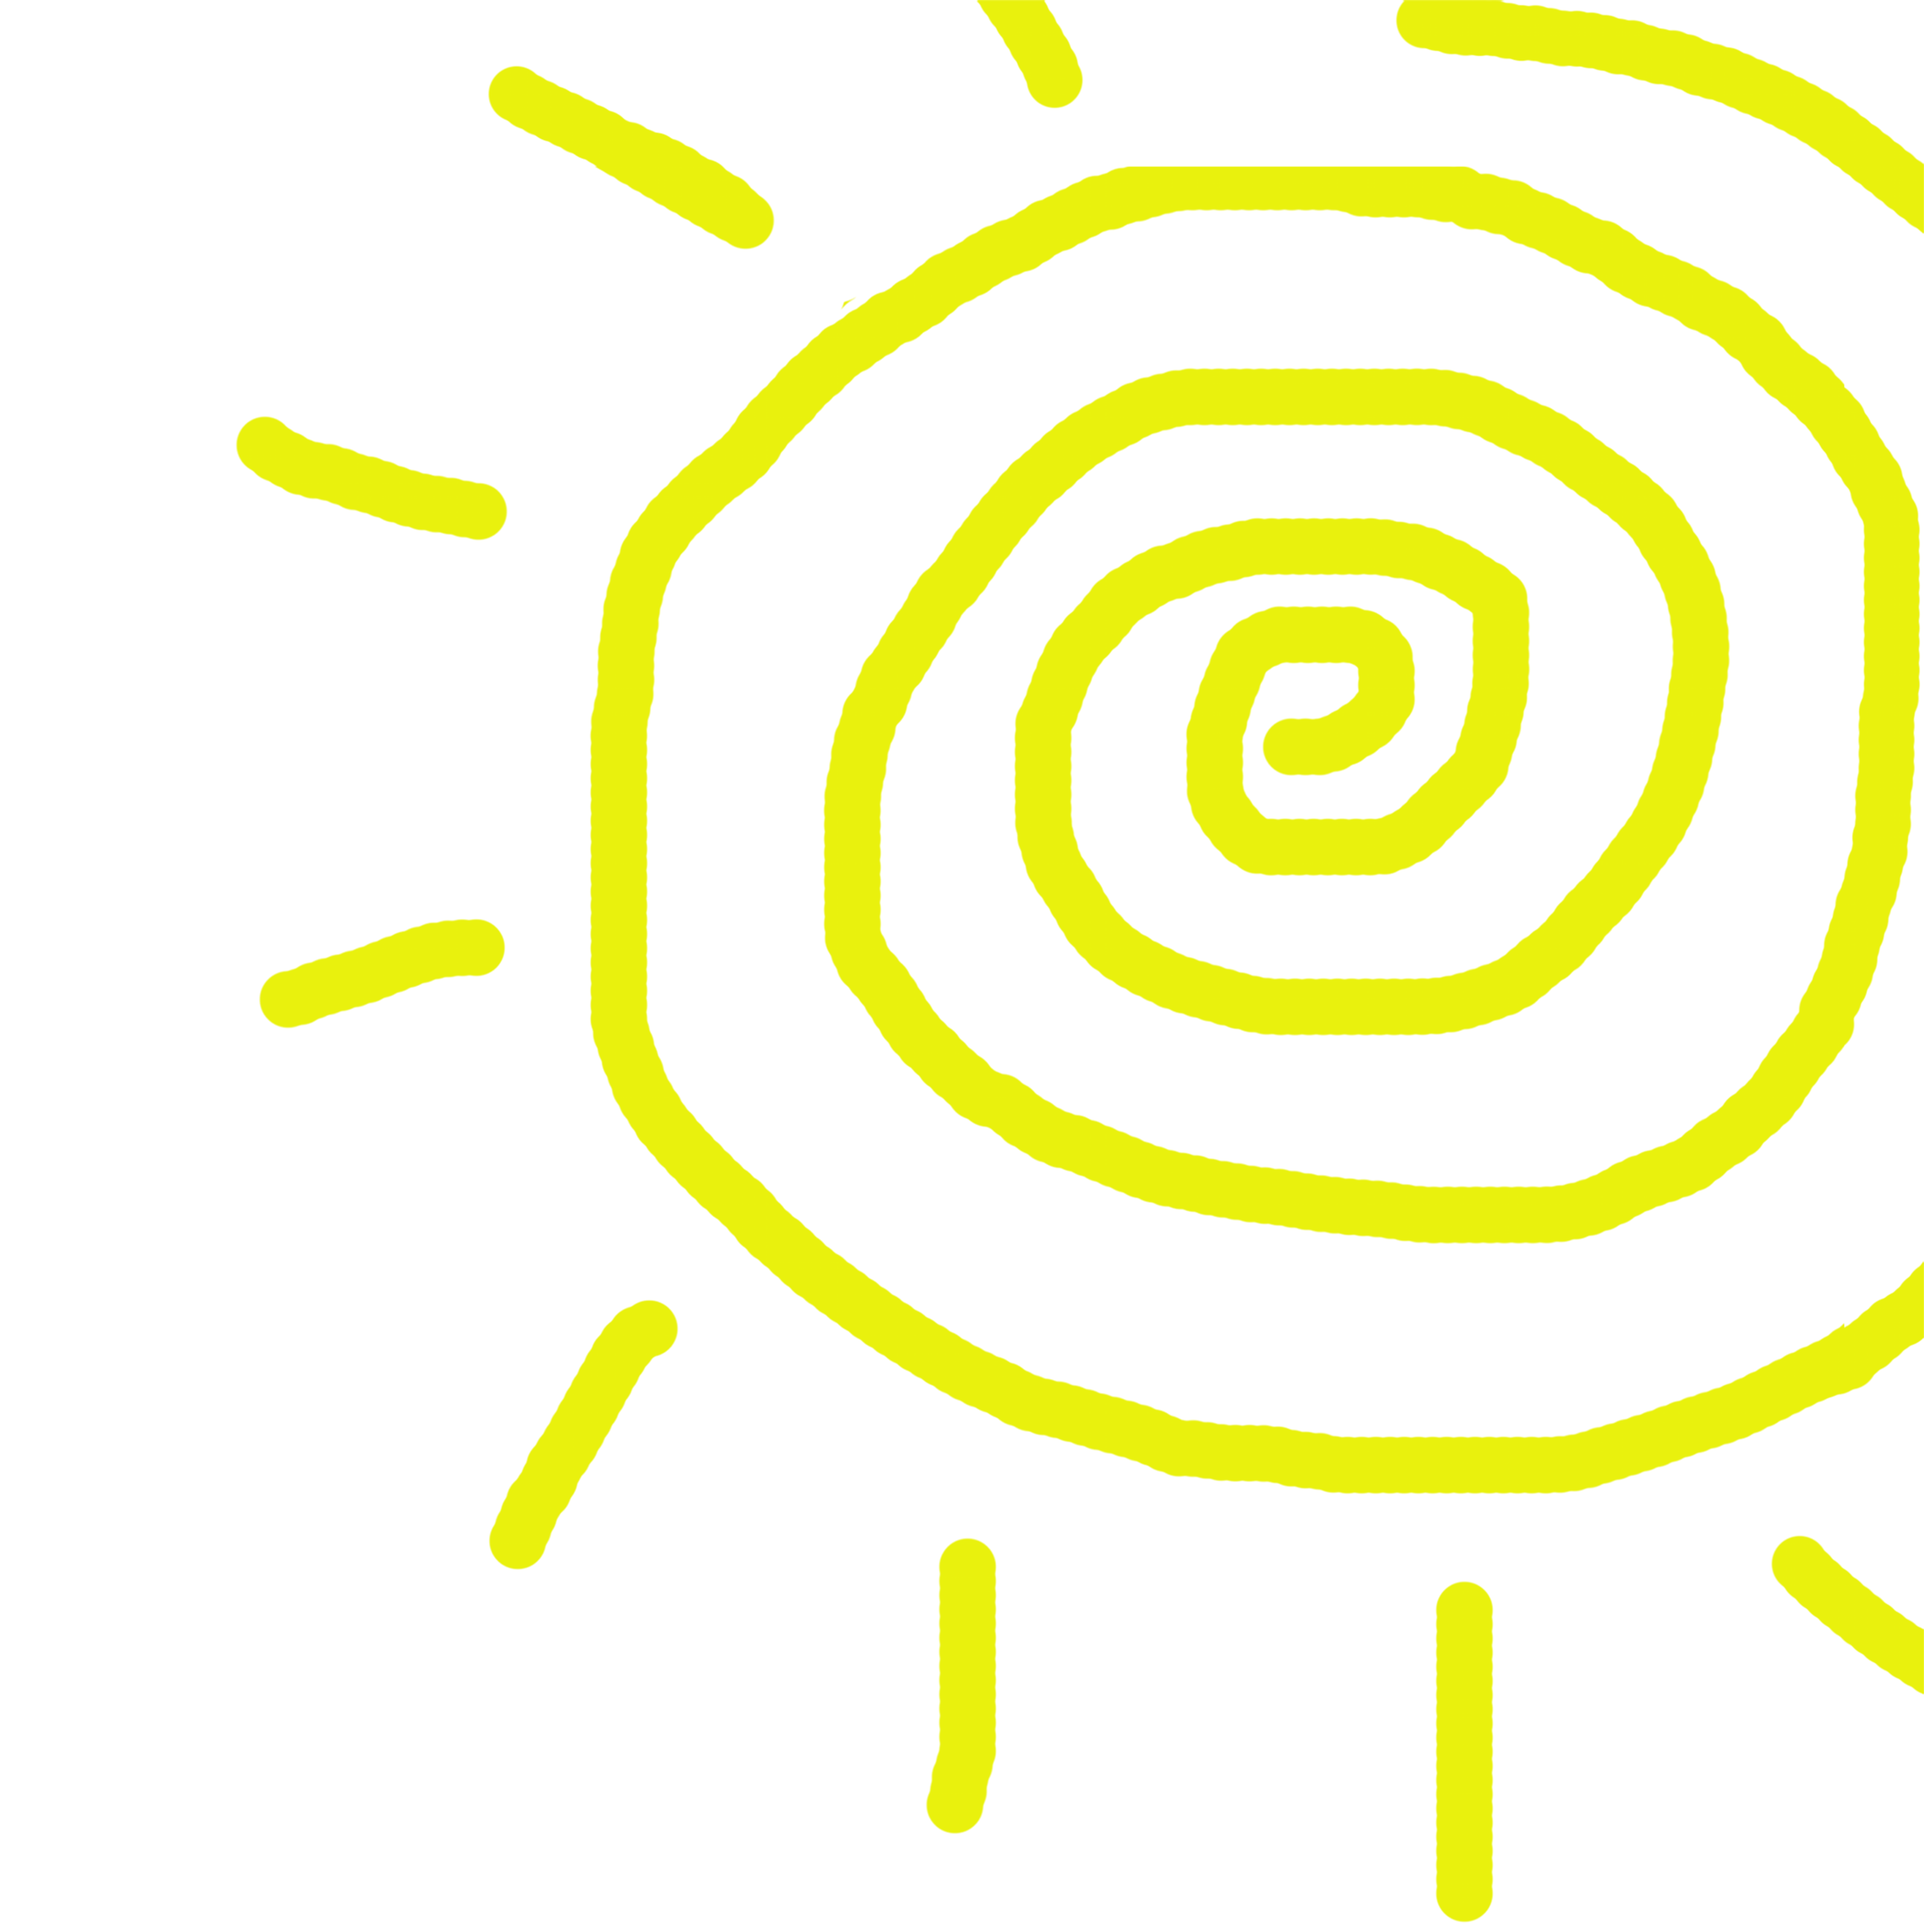
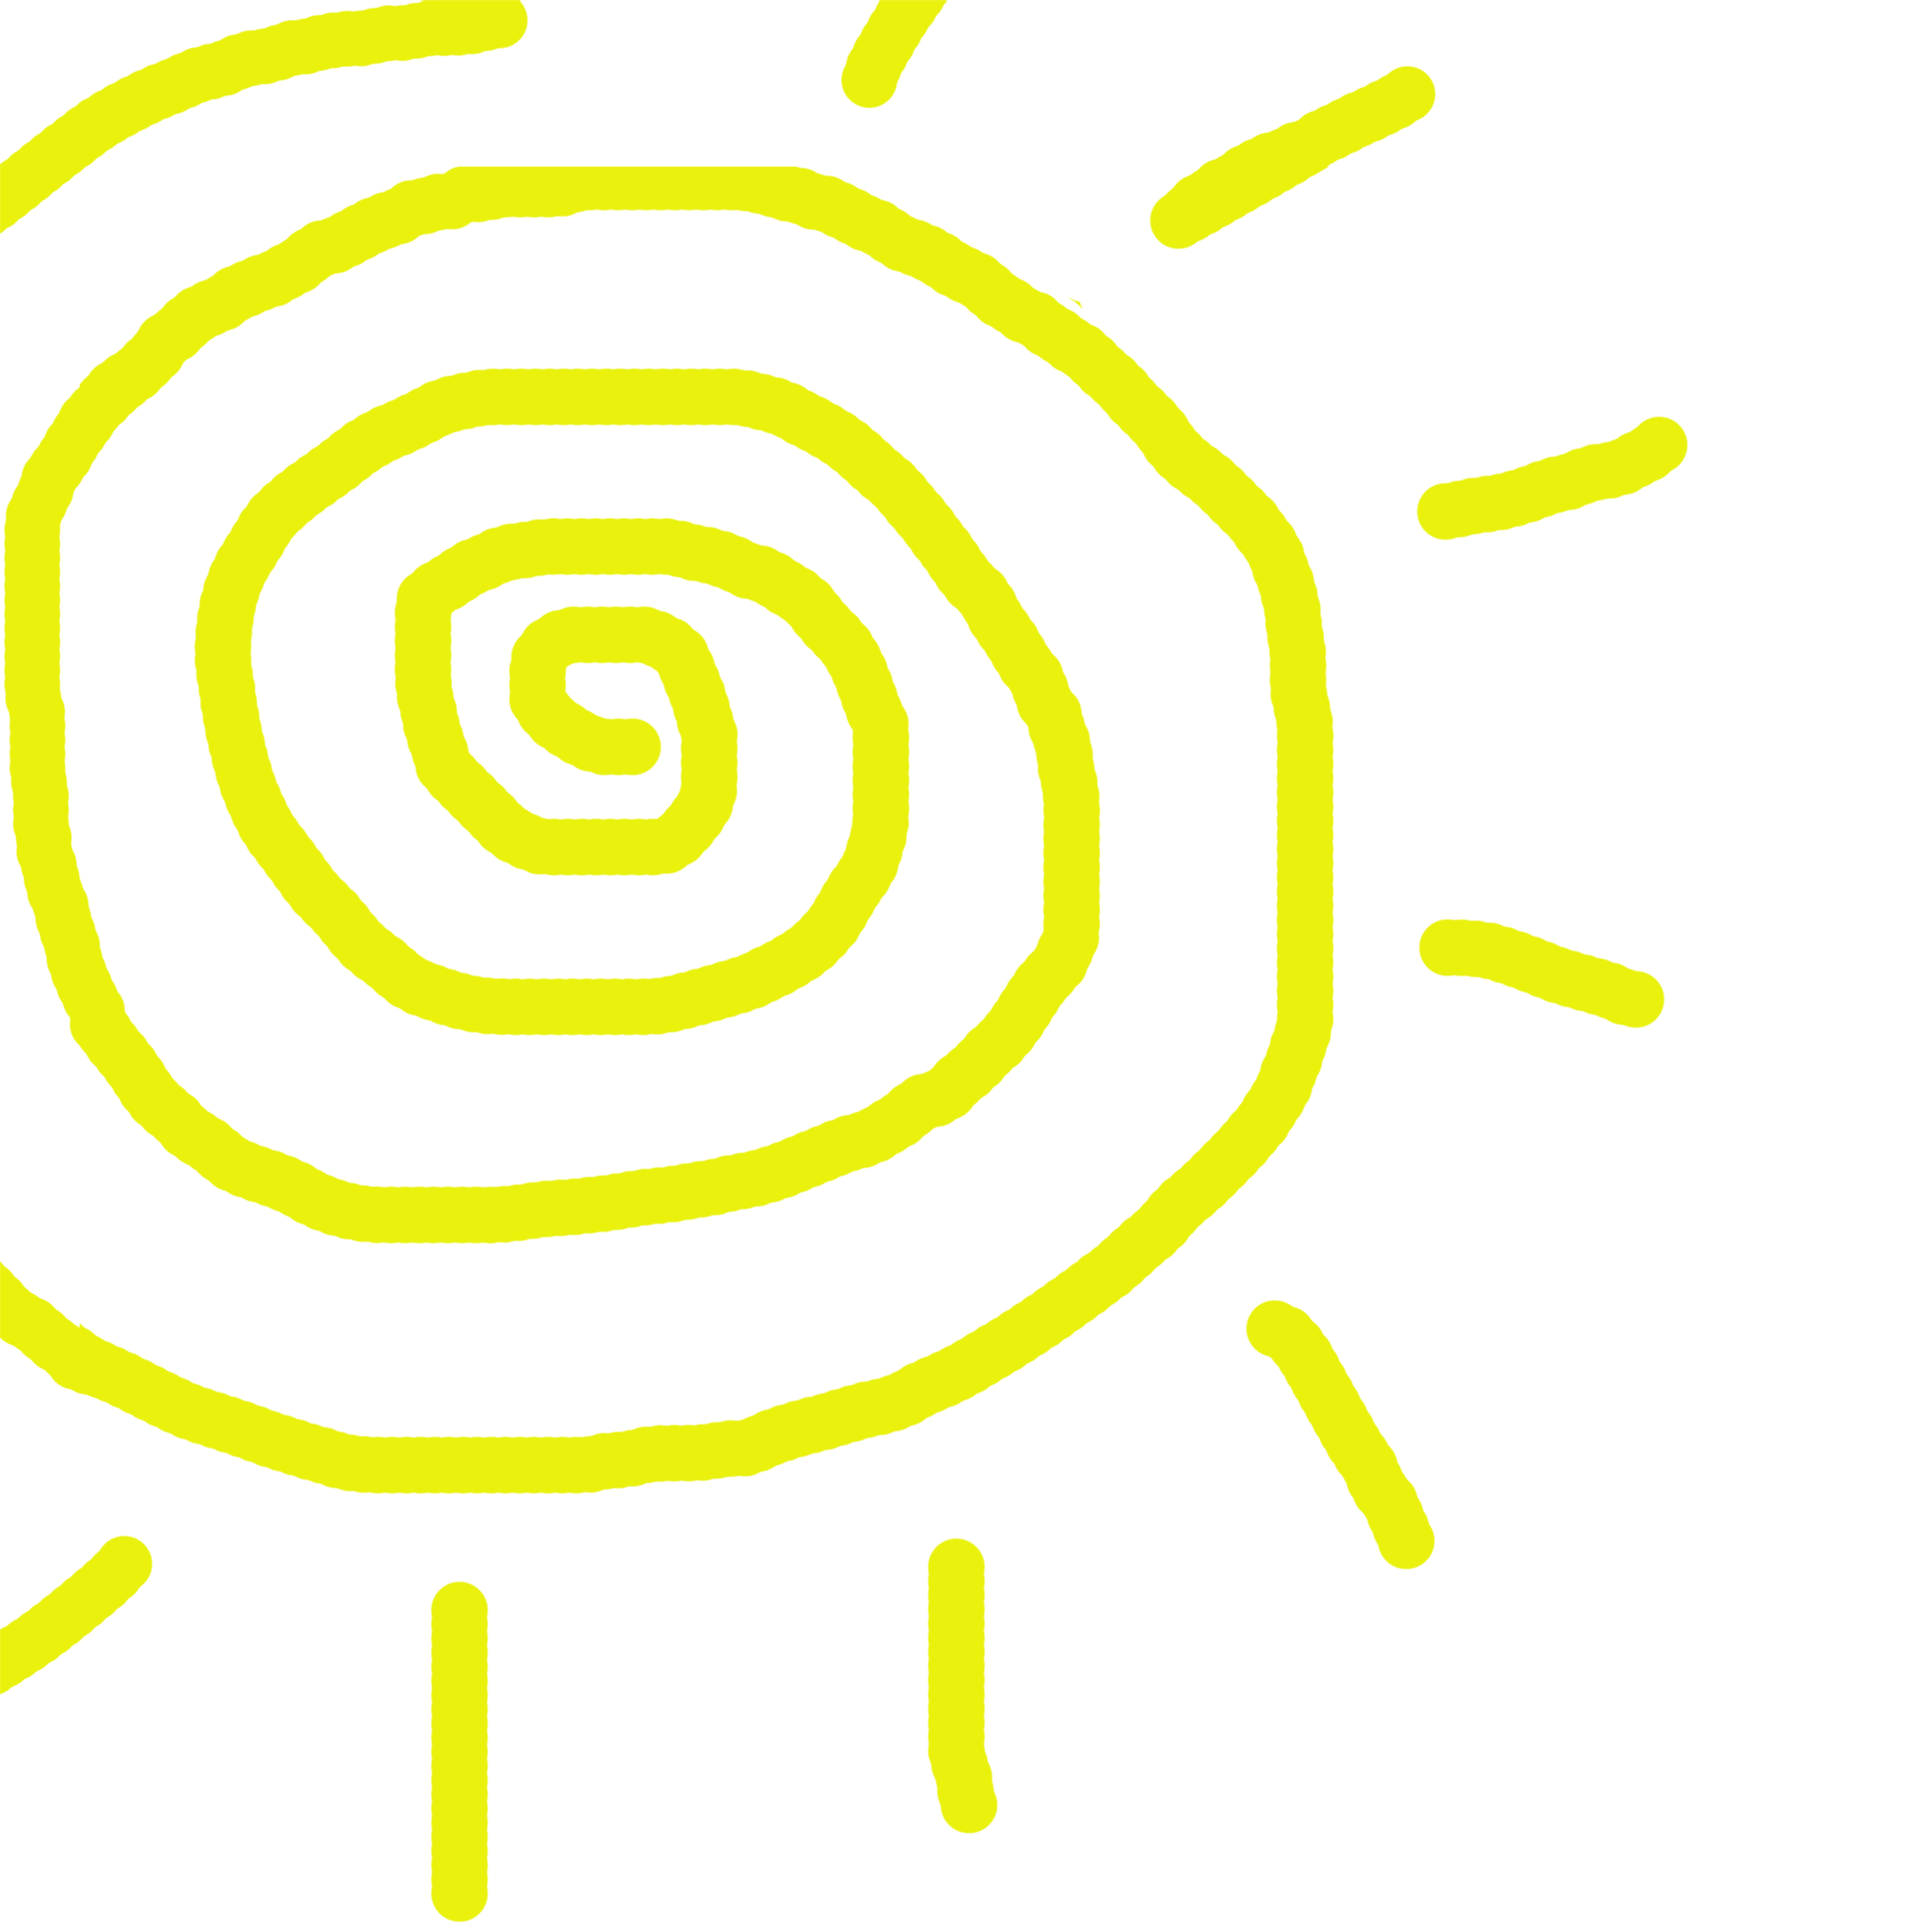
Update sun to be on top-left (should help scrolling)

diff --git a/style/style.css b/style/style.css
@@ -53,7 +53,7 @@ h2 {
 .sun {
     position: absolute;
     top: 0px;
-    right: 0px;
+    left: 0px;
     z-index: 2;
 }
 
